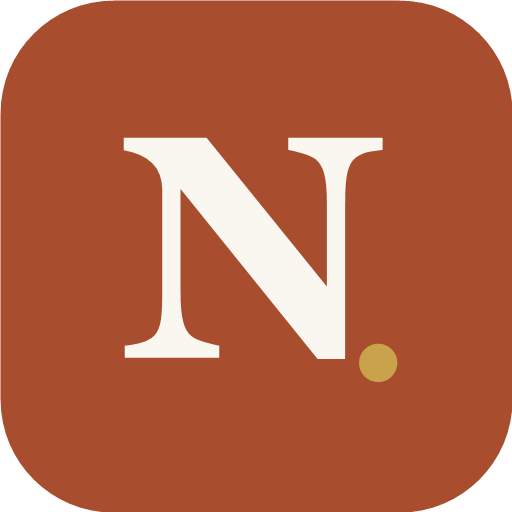
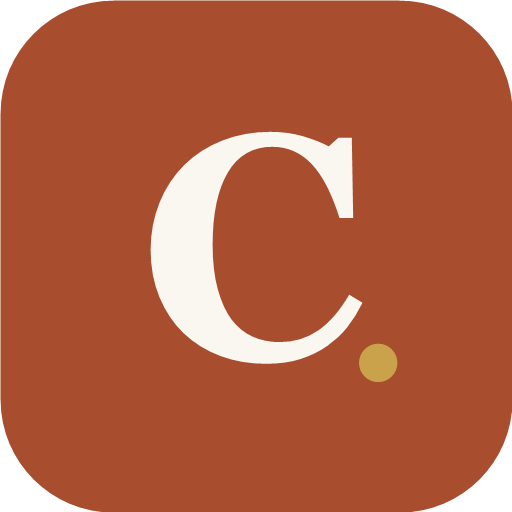
maj: l'application s'appelle désormais Charmes (nom, icône, textes)
- titre, fiche d'installation et textes : Nuance devient Charmes
- nouvelle icône « C » crème sur terracotta
- clés de stockage internes du téléphone inchangées (les données déjà gardées restent)

Changed region(s): [[0.2188, 0.25, 0.7188, 0.7188], [0.6875, 0.25, 0.75, 0.3125]]

diff --git a/src/app/confidentialite/page.tsx b/src/app/confidentialite/page.tsx
@@ -1,18 +1,18 @@
 import { Contact, PageLegale } from "@/components/PageLegale";
 import { EDITEUR, MISE_A_JOUR } from "@/data/legal";
 
-export const metadata = { title: "Politique de confidentialité · Nuance" };
+export const metadata = { title: "Politique de confidentialité · Charmes" };
 
 export default function Confidentialite() {
   return (
     <PageLegale titre="Politique de confidentialité" miseAJour={MISE_A_JOUR}>
       <p>
-        Nuance t’aide à trouver les couleurs et les tenues qui te mettent en valeur. Cette page explique, simplement, quelles données sont utilisées, pourquoi, et comment tu gardes la main dessus.
+        Charmes t’aide à trouver les couleurs et les tenues qui te mettent en valeur. Cette page explique, simplement, quelles données sont utilisées, pourquoi, et comment tu gardes la main dessus.
       </p>
 
       <section>
         <h2>Qui est responsable ?</h2>
-        <p>{EDITEUR}, à l’origine de Nuance (projet personnel en cours de développement, Rennes). Contact : <Contact />.</p>
+        <p>{EDITEUR}, à l’origine de Charmes (projet personnel en cours de développement, Rennes). Contact : <Contact />.</p>
       </section>
 
       <section>
@@ -22,7 +22,7 @@ export default function Confidentialite() {
           <li><strong>Tes favoris</strong> : tenues et pièces que tu as aimées, avec leur couleur.</li>
           <li><strong>Ton adresse e-mail</strong>, seulement si tu crées un compte (pour te connecter).</li>
         </ul>
-        <p>Nuance ne demande <strong>aucune photo</strong>, aucune donnée bancaire, et n’affiche aucune publicité.</p>
+        <p>Charmes ne demande <strong>aucune photo</strong>, aucune donnée bancaire, et n’affiche aucune publicité.</p>
       </section>
 
       <section>
@@ -54,12 +54,12 @@ export default function Confidentialite() {
 
       <section>
         <h2>Cookies</h2>
-        <p>Nuance utilise seulement les cookies nécessaires pour rester connecté. Aucun cookie publicitaire ni de mesure d’audience.</p>
+        <p>Charmes utilise seulement les cookies nécessaires pour rester connecté. Aucun cookie publicitaire ni de mesure d’audience.</p>
       </section>
 
       <section>
         <h2>Liens vers les boutiques</h2>
-        <p>Les boutons « Chercher » ouvrent le site d’une boutique (Zara, H&amp;M, Vinted…). Nuance ne leur transmet aucune donnée personnelle : seuls les mots-clés de la pièce sont envoyés. Sur leur site, c’est leur propre politique de confidentialité qui s’applique. Nuance n’a aucun partenariat avec ces boutiques.</p>
+        <p>Les boutons « Chercher » ouvrent le site d’une boutique (Zara, H&amp;M, Vinted…). Charmes ne leur transmet aucune donnée personnelle : seuls les mots-clés de la pièce sont envoyés. Sur leur site, c’est leur propre politique de confidentialité qui s’applique. Charmes n’a aucun partenariat avec ces boutiques.</p>
       </section>
 
       <section>

diff --git a/src/app/moi/ProfilReglages.tsx b/src/app/moi/ProfilReglages.tsx
@@ -14,7 +14,7 @@ const profilBrut = () => {
   return p ? JSON.stringify(p) : "";
 };
 
-// Toutes les clés que Nuance garde sur le téléphone.
+// Toutes les clés que Charmes garde sur le téléphone.
 const CLES_LOCALES = ["nuance:profil", "nuance:tenues-aimees", "nuance:pieces-aimees"];
 
 export function ProfilReglages() {
@@ -38,7 +38,7 @@ export function ProfilReglages() {
       compte = { email: u.user.email, cree_le: u.user.created_at, profil: profilDb.data, tenues_aimees: tenues.data, pieces_aimees: pieces.data };
     }
     const donnees = {
-      application: "Nuance",
+      application: "Charmes",
       exporte_le: new Date().toISOString(),
       sur_ce_telephone: { profil: lireProfil(), tenues_aimees: lireTenuesAimees(), pieces_aimees: lirePiecesAimees() },
       dans_mon_compte: compte,
@@ -46,7 +46,7 @@ export function ProfilReglages() {
     const blob = new Blob([JSON.stringify(donnees, null, 2)], { type: "application/json" });
     const lien = document.createElement("a");
     lien.href = URL.createObjectURL(blob);
-    lien.download = `nuance-mes-donnees-${new Date().toISOString().slice(0, 10)}.json`;
+    lien.download = `charmes-mes-donnees-${new Date().toISOString().slice(0, 10)}.json`;
     lien.click();
     URL.revokeObjectURL(lien.href);
     setEtat("repos");
@@ -122,7 +122,7 @@ export function ProfilReglages() {
       <section aria-labelledby="confidentialite" className="flex flex-col gap-2.5 rounded-2xl bg-carte p-4 shadow-[0_4px_14px_rgba(43,29,20,0.06)]">
         <h2 id="confidentialite" className="text-base font-semibold">Confidentialité</h2>
         <p className="text-[13px] leading-relaxed text-encre-douce">
-          Nuance ne garde que ce qui sert à te conseiller : ton profil de style et tes favoris. Pas de photo, pas de publicité, pas de revente.
+          Charmes ne garde que ce qui sert à te conseiller : ton profil de style et tes favoris. Pas de photo, pas de publicité, pas de revente.
         </p>
         <button type="button" onClick={telecharger} disabled={etat === "export"} className="h-12 rounded-xl border-2 border-bordure text-[15px] font-semibold disabled:opacity-60">
           {etat === "export" ? "Préparation de tes données…" : "Télécharger mes données"}

diff --git a/src/app/mentions-legales/page.tsx b/src/app/mentions-legales/page.tsx
@@ -1,14 +1,14 @@
 import { Contact, PageLegale } from "@/components/PageLegale";
 import { EDITEUR, MISE_A_JOUR } from "@/data/legal";
 
-export const metadata = { title: "Mentions légales · Nuance" };
+export const metadata = { title: "Mentions légales · Charmes" };
 
 export default function MentionsLegales() {
   return (
     <PageLegale titre="Mentions légales" miseAJour={MISE_A_JOUR}>
       <section>
         <h2>Éditeur</h2>
-        <p>Nuance est un projet personnel, non commercial, édité par {EDITEUR} (étudiant, Rennes). Contact : <Contact />.</p>
+        <p>Charmes est un projet personnel, non commercial, édité par {EDITEUR} (étudiant, Rennes). Contact : <Contact />.</p>
       </section>
 
       <section>
@@ -24,7 +24,7 @@ export default function MentionsLegales() {
       <section>
         <h2>Contenus et marques</h2>
         <p>
-          Les palettes, les fiches de pièces, les textes et les illustrations de Nuance sont propres au projet. Les noms de boutiques cités (Zara, H&amp;M, Celio, Zalando, Decathlon, Etsy, Spartoo, Vinted) appartiennent à leurs propriétaires respectifs ; ils sont mentionnés uniquement pour t’aider à trouver une pièce, sans partenariat ni rémunération.
+          Les palettes, les fiches de pièces, les textes et les illustrations de Charmes sont propres au projet. Les noms de boutiques cités (Zara, H&amp;M, Celio, Zalando, Decathlon, Etsy, Spartoo, Vinted) appartiennent à leurs propriétaires respectifs ; ils sont mentionnés uniquement pour t’aider à trouver une pièce, sans partenariat ni rémunération.
         </p>
       </section>
 

diff --git a/src/app/moi/page.tsx b/src/app/moi/page.tsx
@@ -5,7 +5,7 @@ import { createClient } from "@/lib/supabase/server";
 import { seDeconnecter } from "../connexion/actions";
 import { ProfilReglages } from "./ProfilReglages";
 
-export const metadata = { title: "Profil et réglages · Nuance" };
+export const metadata = { title: "Profil et réglages · Charmes" };
 
 export default function PageProfil() {
   return (
@@ -32,7 +32,7 @@ async function Compte() {
     return (
       <section className="flex flex-col gap-2 rounded-2xl border-2 border-dashed border-bordure p-4">
         <p className="text-sm leading-relaxed text-encre-douce">
-          Tu utilises Nuance sans compte : ton profil et tes favoris sont gardés sur ce téléphone uniquement.
+          Tu utilises Charmes sans compte : ton profil et tes favoris sont gardés sur ce téléphone uniquement.
         </p>
         <Link href="/connexion" className="text-[15px] font-semibold text-terracotta underline">
           Me connecter ou créer mon compte

diff --git a/src/app/page.tsx b/src/app/page.tsx
@@ -26,7 +26,7 @@ export default function Accueil() {
     <main className="mx-auto flex min-h-dvh w-full max-w-md flex-col gap-6 px-6 pt-14 pb-8">
       <header className="flex flex-col items-center gap-3 text-center">
         <p className="text-xs font-semibold uppercase tracking-[0.18em] text-sauge-fonce">Ton conseil en style</p>
-        <h1 className="font-serif text-6xl font-semibold leading-none tracking-tight">Nuance</h1>
+        <h1 className="font-serif text-6xl font-semibold leading-none tracking-tight">Charmes</h1>
         <p className="max-w-[300px] text-[17px] leading-relaxed text-encre-douce">
           Les couleurs qui te vont, la tenue de la saison, et où la trouver.
         </p>

diff --git a/src/app/layout.tsx b/src/app/layout.tsx
@@ -14,12 +14,12 @@ const playfair = Playfair_Display({
 });
 
 export const metadata: Metadata = {
-  title: "Nuance · Les couleurs qui te vont",
+  title: "Charmes · Les couleurs qui te vont",
   description: "Les couleurs qui te vont, la tenue de la saison, et où la trouver.",
-  applicationName: "Nuance",
+  applicationName: "Charmes",
   // Prototype en cours de construction : pas d'indexation par les moteurs de recherche.
   robots: { index: false, follow: false },
-  appleWebApp: { capable: true, title: "Nuance", statusBarStyle: "default" },
+  appleWebApp: { capable: true, title: "Charmes", statusBarStyle: "default" },
 };
 
 export const viewport: Viewport = {

diff --git a/src/lib/favoris.ts b/src/lib/favoris.ts
@@ -2,7 +2,7 @@ import { SAISONS, type Saison } from "@/data/catalogue";
 import { createClient } from "@/lib/supabase/client";
 import type { Tenue } from "./tenues";
 
-// Favoris de Nuance (tenues aimées et pièces favorites).
+// Favoris de Charmes (tenues aimées et pièces favorites).
 // Le téléphone garde toujours une copie (localStorage) : ça marche sans compte et sans réseau.
 // Si la personne est connectée, chaque changement est aussi enregistré dans son compte (Supabase, RLS),
 // et synchroniser() fusionne les deux au chargement.

diff --git a/src/data/catalogue.ts b/src/data/catalogue.ts
@@ -1,4 +1,4 @@
-// Catalogue de Nuance : des « pièces types » précises, sans prix ni code article inventé.
+// Catalogue de Charmes : des « pièces types » précises, sans prix ni code article inventé.
 // La couleur n'est pas figée : elle vient de la palette de la personne.
 //  - pièces portées près du visage (hauts, robes, pièces en plus) → couleurs phares de la palette ;
 //  - pièces portées loin du visage (bas, chaussures) → neutres de la palette + couleurs « loin du visage ».

diff --git a/src/app/pieces/[id]/page.tsx b/src/app/pieces/[id]/page.tsx
@@ -11,7 +11,7 @@ export function generateStaticParams() {
 export async function generateMetadata({ params }: PageProps<"/pieces/[id]">) {
   const { id } = await params;
   const piece = PIECES.find((p) => p.id === id);
-  return { title: piece ? `${piece.nom} · Nuance` : "Pièce introuvable · Nuance" };
+  return { title: piece ? `${piece.nom} · Charmes` : "Pièce introuvable · Charmes" };
 }
 
 export default async function PagePiece({ params }: PageProps<"/pieces/[id]">) {

diff --git a/src/app/manifest.ts b/src/app/manifest.ts
@@ -3,8 +3,8 @@ import type { MetadataRoute } from "next";
 // Fiche d'identité de l'appli : c'est elle qui permet « Ajouter à l'écran d'accueil » sur téléphone.
 export default function manifest(): MetadataRoute.Manifest {
   return {
-    name: "Nuance",
-    short_name: "Nuance",
+    name: "Charmes",
+    short_name: "Charmes",
     description: "Les couleurs qui te vont, la tenue de la saison, et où la trouver.",
     lang: "fr",
     start_url: "/",

diff --git a/src/data/palettes.ts b/src/data/palettes.ts
@@ -1,4 +1,4 @@
-// Palettes de couleurs de Nuance : 4 profondeurs de teint × 3 sous-tons = 12 palettes.
+// Palettes de couleurs de Charmes : 4 profondeurs de teint × 3 sous-tons = 12 palettes.
 // Principes (cahier des charges, section 7) :
 //  - plus le teint est profond, plus les couleurs franches, saturées et lumineuses le mettent en valeur ;
 //  - sur un teint clair, les couleurs douces et nuancées évitent de « durcir » le visage ;

diff --git a/src/components/Mannequin3D.tsx b/src/components/Mannequin3D.tsx
@@ -1,6 +1,6 @@
 "use client";
 
-// Mannequin 3D stylisé de Nuance, construit entièrement en code (three.js via React Three Fiber).
+// Mannequin 3D stylisé de Charmes, construit entièrement en code (three.js via React Three Fiber).
 // Formes douces, sans visage détaillé (comme dans le design). Il s'adapte à :
 //  - la taille et la silhouette (largeur des épaules, de la taille, des hanches) ;
 //  - le teint (couleur de la peau) ;
